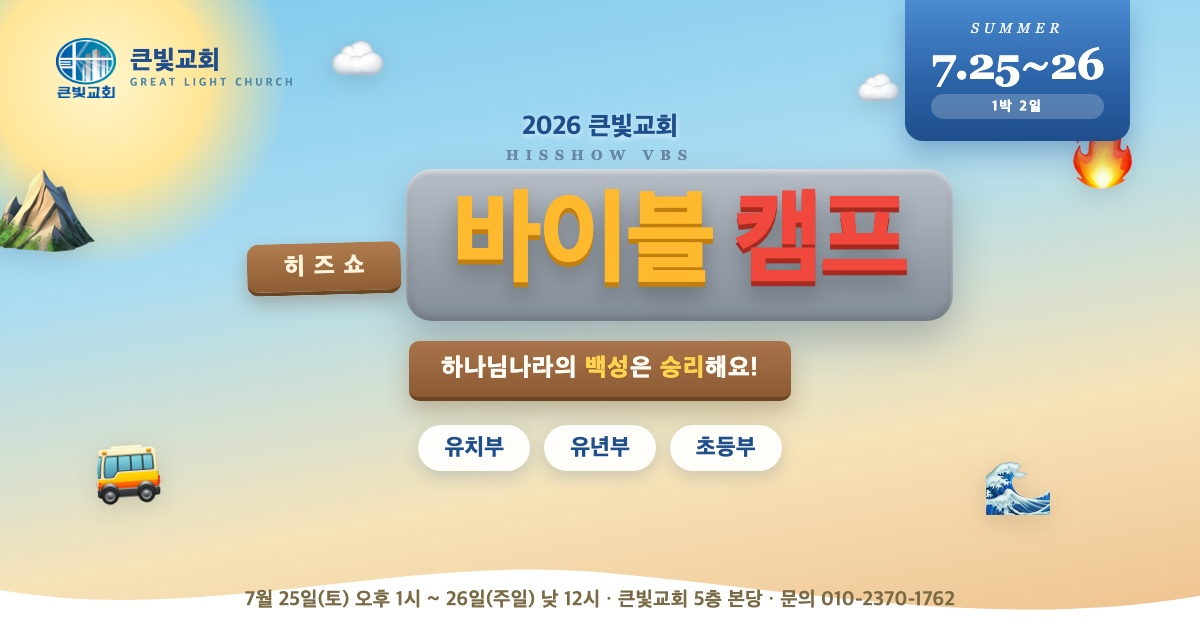
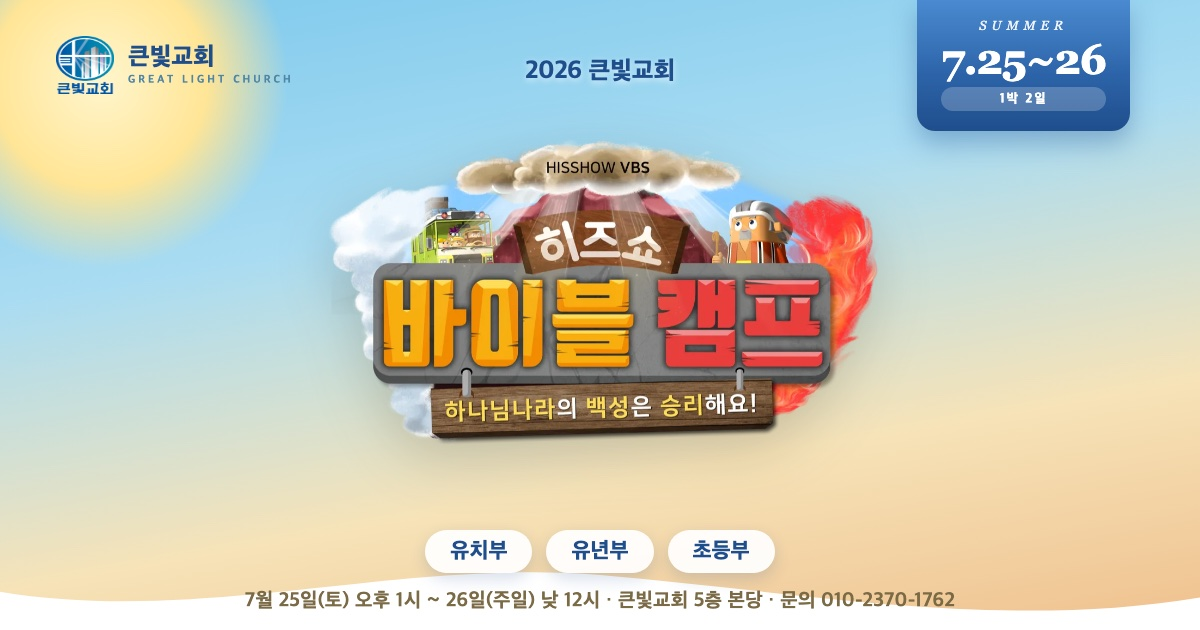
배너의 CSS 모조 로고를 정식 히즈쇼 바이블 캠프 로고 이미지로 교체
- 카카오톡으로 받은 공식 로고(가로형, 투명 PNG 3508×2480)를
  웹용 WebP로 변환(1120w, 102KB — 원본 대비 98% 절감)해 camp-logo.webp로 추가
- 배너 중앙: CSS로 흉내낸 히즈쇼/돌판/부제 → 정식 아트웍 이미지
  · width/height 속성으로 레이아웃 시프트 방지, 스크린리더용 제목(h3) 유지
  · 로고에 이미 있는 산·버스·불기둥과 겹치는 이모지 장식 제거(구름·파도만 유지)
- 공유 썸네일(og-bible-camp.jpg)도 정식 로고로 재제작, 메타 ?v=2로 캐시 무효화
- 미사용 CSS(.camp-hisshow/.camp-plate/.camp-title/.camp-plank 등) 정리

diff --git a/index.html b/index.html
@@ -13,7 +13,7 @@
 <meta property="og:site_name" content="큰빛교회">
 <meta property="og:title" content="2026 큰빛교회 히즈쇼 바이블 캠프 · 7/25~26 (1박 2일)">
 <meta property="og:description" content="🏕️ 하나님나라의 백성은 승리해요!｜유치부·유년부·초등부｜7/25(토) 오후 1시~26(주일) 낮 12시｜큰빛교회 5층 본당｜문의 이찬미 010-2370-1762">
-<meta property="og:image" content="https://glc150606.github.io/glc/og-bible-camp.jpg">
+<meta property="og:image" content="https://glc150606.github.io/glc/og-bible-camp.jpg?v=2">
 <meta property="og:image:width" content="1200">
 <meta property="og:image:height" content="630">
 <meta property="og:image:alt" content="2026 큰빛교회 히즈쇼 바이블 캠프">
@@ -24,7 +24,7 @@
 <meta name="twitter:card" content="summary_large_image">
 <meta name="twitter:title" content="2026 큰빛교회 히즈쇼 바이블 캠프 · 7/25~26 (1박 2일)">
 <meta name="twitter:description" content="🏕️ 하나님나라의 백성은 승리해요!｜유치부·유년부·초등부｜7/25(토)~26(주일) 1박 2일">
-<meta name="twitter:image" content="https://glc150606.github.io/glc/og-bible-camp.jpg">
+<meta name="twitter:image" content="https://glc150606.github.io/glc/og-bible-camp.jpg?v=2">
 
 <meta name="theme-color" content="#C8566E">
 <link rel="icon" type="image/png" href="logo.png">
@@ -1865,11 +1865,8 @@ footer .footer-phone:hover { color: #F2B5C0; }
   filter: drop-shadow(0 4px 8px rgba(0,0,0,0.10));
 }
 .camp-deco.d1 { top: 18px;  left: 30px;   font-size: 38px; }
-.camp-deco.d2 { top: 112px; left: -4px;   font-size: 54px; }
-.camp-deco.d3 { bottom: 64px; left: 30px;  font-size: 42px; transform: rotate(-4deg); }
 .camp-deco.d4 { top: 24px;  right: 172px;  font-size: 30px; }
-.camp-deco.d5 { bottom: 98px; right: 26px;  font-size: 40px; }
-.camp-deco.d6 { bottom: 56px; right: 110px; font-size: 36px; }
+.camp-deco.d6 { bottom: 60px; right: 34px; font-size: 38px; }
 
 /* Date ribbon (top-right) */
 .camp-ribbon {
@@ -1927,69 +1924,23 @@ footer .footer-phone:hover { color: #F2B5C0; }
   letter-spacing: 0.5px;
   text-shadow: 0 2px 6px rgba(255,255,255,0.6);
 }
-.camp-vbs-label {
-  font-family: 'Georgia', serif;
-  font-size: 11px;
-  letter-spacing: 5px;
-  font-weight: 700;
-  color: #6B87A6;
-  margin: 4px 0 12px;
-}
-.camp-hisshow {
-  display: inline-block;
-  background: linear-gradient(180deg, #B07C4F 0%, #8E5D33 100%);
-  color: #FFF3DC;
-  font-size: 17px;
-  font-weight: 900;
-  letter-spacing: 6px;
-  text-indent: 6px;
-  padding: 7px 20px 8px;
-  border-radius: 10px;
-  border-bottom: 3px solid #6E4523;
-  box-shadow: 0 6px 14px rgba(110,69,35,0.30);
-  transform: rotate(-1.5deg);
-  position: relative;
-  z-index: 2;
-}
-.camp-plate {
-  display: table;
-  margin: -6px auto 0;
-  background: linear-gradient(180deg, #B7BEC7 0%, #99A2AC 55%, #838D98 100%);
-  border-radius: 20px;
-  padding: 18px 34px 20px;
-  box-shadow: 0 14px 30px rgba(60,70,85,0.28), inset 0 2px 3px rgba(255,255,255,0.55), inset 0 -3px 6px rgba(0,0,0,0.18);
-}
-.camp-title {
-  margin: 0;
-  font-size: clamp(42px, 7.6vw, 68px);
-  font-weight: 900;
-  letter-spacing: -2px;
-  line-height: 1;
+/* 정식 로고 이미지 (스크린리더용 제목은 숨김 처리) */
+.camp-title-sr {
+  position: absolute;
+  width: 1px; height: 1px;
+  margin: -1px; padding: 0;
+  overflow: hidden;
+  clip: rect(0 0 0 0);
   white-space: nowrap;
+  border: 0;
 }
-.camp-title .gold {
-  color: #FFB92E;
-  text-shadow: 0 3px 0 #C07F0E, 0 8px 16px rgba(0,0,0,0.28);
+.camp-logo {
+  display: block;
+  width: min(620px, 96%);
+  height: auto;
+  margin: 4px auto 0;
+  filter: drop-shadow(0 14px 26px rgba(60,50,30,0.20));
 }
-.camp-title .red {
-  color: #F0483C;
-  margin-left: 14px;
-  text-shadow: 0 3px 0 #A62A20, 0 8px 16px rgba(0,0,0,0.28);
-}
-.camp-plank {
-  display: inline-block;
-  margin-top: 16px;
-  background: linear-gradient(180deg, #A9744B 0%, #8B5A33 100%);
-  color: #FFFDF6;
-  font-size: clamp(13px, 2vw, 17px);
-  font-weight: 800;
-  letter-spacing: 0.5px;
-  padding: 9px 22px 10px;
-  border-radius: 8px;
-  border-bottom: 3px solid #6E4523;
-  box-shadow: 0 8px 18px rgba(110,69,35,0.28);
-}
-.camp-plank em { font-style: normal; color: #FFD34D; }
 .camp-pills {
   display: flex;
   flex-wrap: wrap;
@@ -2232,19 +2183,13 @@ footer .footer-phone:hover { color: #F2B5C0; }
   .camp-banner { padding: 32px 14px 46px; }
   .camp-sun { width: 130px; height: 130px; top: -30px; left: -24px; }
   .camp-deco { display: none; }
-  .camp-deco.d2, .camp-deco.d5 { display: block; }
-  .camp-deco.d2 { font-size: 36px; top: 66px; left: -6px; }
-  .camp-deco.d5 { font-size: 26px; bottom: 92px; right: 12px; }
   .camp-ribbon { right: 14px; padding: 10px 12px 12px; min-width: 84px; }
   .camp-rb-label { font-size: 9px; letter-spacing: 2px; margin-bottom: 4px; }
   .camp-rb-date { font-size: 26px; }
   .camp-rb-day { font-size: 10px; letter-spacing: 1px; margin-top: 5px; }
   .camp-year { font-size: 16px; }
-  .camp-vbs-label { font-size: 9px; letter-spacing: 3px; margin: 3px 0 10px; }
-  .camp-hisshow { font-size: 13px; letter-spacing: 4px; text-indent: 4px; padding: 5px 14px 6px; }
-  .camp-plate { padding: 12px 18px 14px; border-radius: 16px; margin-top: -4px; }
-  .camp-plank { margin-top: 12px; padding: 7px 14px 8px; }
-  .camp-pills { gap: 6px; margin-top: 14px; }
+  .camp-logo { width: 100%; margin-top: 2px; }
+  .camp-pills { gap: 6px; margin-top: 12px; }
   .camp-pills span { font-size: 12px; padding: 5px 13px; }
   .camp-waves svg { height: 34px; }
 
@@ -2293,12 +2238,9 @@ footer .footer-phone:hover { color: #F2B5C0; }
 }
 @media (max-width: 480px) {
   .camp-banner { padding-top: 84px; }
-  .camp-title { font-size: 34px; letter-spacing: -1px; }
-  .camp-title .red { margin-left: 8px; }
   .camp-ribbon { min-width: 76px; padding: 9px 11px 11px; }
   .camp-rb-label { letter-spacing: 3px; }
   .camp-rb-date { font-size: 23px; }
-  .camp-deco.d2 { display: none; }
   .camp-highs { grid-template-columns: repeat(2, 1fr); }
   .vbs-info-item { font-size: 12px; }
   .sat-title { font-size: 40px; }
@@ -2773,12 +2715,9 @@ footer .footer-phone:hover { color: #F2B5C0; }
       <div class="camp-banner">
         <!-- Sun glow -->
         <div class="camp-sun"></div>
-        <!-- Decorative camp icons -->
+        <!-- Decorative camp icons (로고와 안 겹치는 구름·파도만) -->
         <span class="camp-deco d1">☁️</span>
-        <span class="camp-deco d2">⛰️</span>
-        <span class="camp-deco d3">🚌</span>
         <span class="camp-deco d4">☁️</span>
-        <span class="camp-deco d5">🔥</span>
         <span class="camp-deco d6">🌊</span>
 
         <!-- Top-right date ribbon -->
@@ -2788,15 +2727,12 @@ footer .footer-phone:hover { color: #F2B5C0; }
           <div class="camp-rb-day">1박 2일</div>
         </div>
 
-        <!-- Center: poster-style logo -->
+        <!-- Center: official HISSHOW VBS logo -->
         <div class="camp-center">
           <div class="camp-year">2026 큰빛교회</div>
-          <div class="camp-vbs-label">HISSHOW VBS</div>
-          <div class="camp-hisshow">히즈쇼</div>
-          <div class="camp-plate">
-            <h3 class="camp-title"><span class="gold">바이블</span><span class="red">캠프</span></h3>
-          </div>
-          <div class="camp-plank">하나님나라의 <em>백성</em>은 <em>승리</em>해요!</div>
+          <h3 class="camp-title-sr">히즈쇼 바이블 캠프</h3>
+          <img class="camp-logo" src="camp-logo.webp" width="1120" height="791"
+               alt="히즈쇼 바이블 캠프 — 하나님나라의 백성은 승리해요!">
           <div class="camp-pills">
             <span>유치부</span>
             <span>유년부</span>